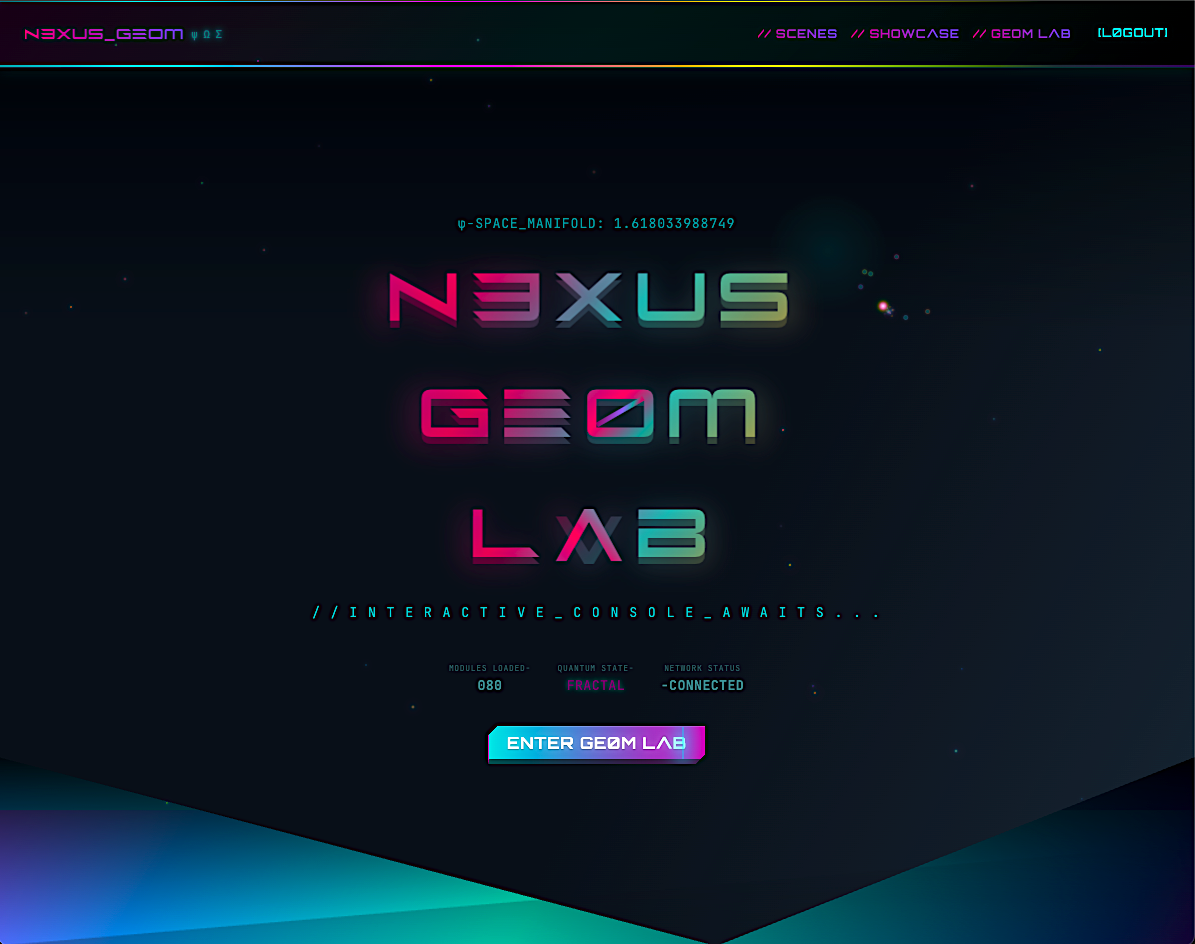
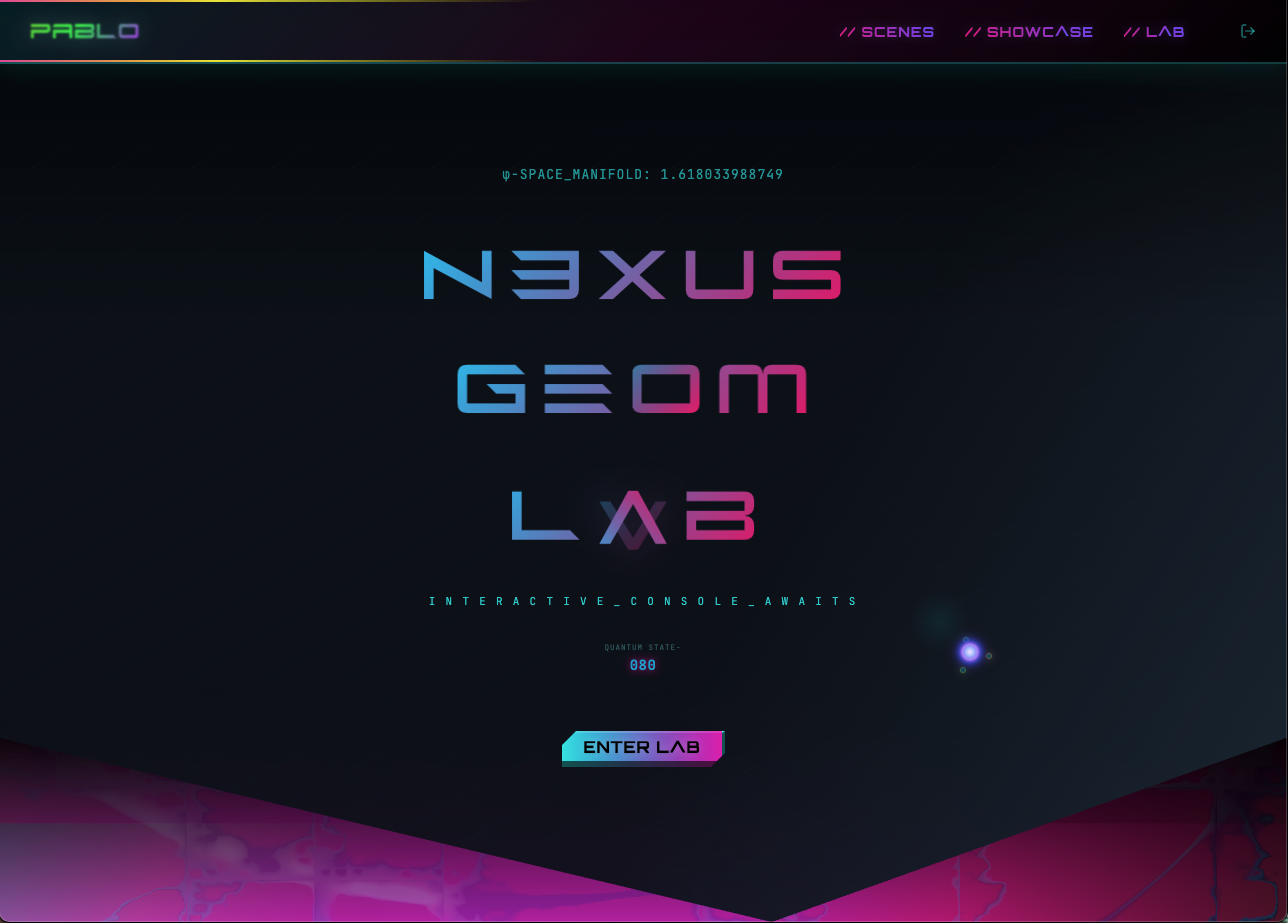
UI polish: wider auth buttons, Enter Lab sizing, always use Render backend, add scramble screenshot

diff --git a/src/components/layout/NavBar/nav.scss b/src/components/layout/NavBar/nav.scss
@@ -119,6 +119,21 @@
   cursor: pointer;
 }
 
+/* Wider auth links (Login/Sign Up) */
+.nav-link[href="/login"],
+.nav-link[href="/signup"] {
+  padding: 8px 24px;
+  border: 1px solid rgba(0, 255, 255, 0.4);
+  border-radius: 4px;
+  transition: all 0.3s ease;
+}
+
+.nav-link[href="/login"]:hover,
+.nav-link[href="/signup"]:hover {
+  border-color: #ff00cc;
+  background: rgba(255, 0, 204, 0.1);
+}
+
 .nav-terminal {
   font-size: 18px; /* Match link size */
   color: #00ffff;

diff --git a/src/components/pages/HomePage/HomeIndex.module.scss b/src/components/pages/HomePage/HomeIndex.module.scss
@@ -955,6 +955,12 @@ input,
     position: relative;
     z-index: 100;
     pointer-events: auto;
+
+    /* Match size with login/signup buttons */
+    button {
+      padding: 14px 80px !important;
+      font-size: 16px !important;
+    }
   }
 
   /* Button wrapper not authenticated */
@@ -977,7 +983,7 @@ input,
 
     /* Button sizing */
     button {
-      padding: 14px 58px;
+      padding: 14px 80px;
       font-size: 16px;
     }
   }
@@ -985,7 +991,7 @@ input,
   /* Large screens - scale up buttons */
   @media (min-width: 1400px) {
     :global(.button-wrapper-no-auth) button {
-      padding: 18px 60px !important;
+      padding: 18px 90px !important;
       font-size: 18px !important;
     }
     :global(.button-wrapper-auth) button {

diff --git a/src/features/auth/services/authApi.js b/src/features/auth/services/authApi.js
@@ -1,9 +1,8 @@
 // Authentication API service
 // Handles user authentication operations: signup, login, and fetching current user
 
-// In development: use empty string (Vite proxy forwards /api to backend)
-// In production: Use Render backend URL
-const API_BASE_URL = import.meta.env.PROD ? 'https://nexus-geom-lab-backend-sn7k.onrender.com' : '';
+// Always use Render backend URL (works for both local dev and production)
+const API_BASE_URL = 'https://nexus-geom-lab-backend-sn7k.onrender.com';
 
 /**
  * Sign up a new user

diff --git a/README.md b/README.md
@@ -41,6 +41,11 @@ _Landing page with quantum background and navigation_
 ![Homepage Logged In](./screenshots/homepage-logged-in.png)
 _Landing page showing authenticated user state with username and My Scenes link_
 
+### Title Scramble Effect (アトリエ)
+
+![Nexus Scramble](./screenshots/nexus-scramble.png)
+_Title scrambles into Japanese characters for "atelier" (アトリエ) on hover_
+
 ### Sign Up Page
 
 ![Sign Up](./screenshots/signup.png)